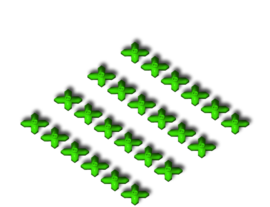
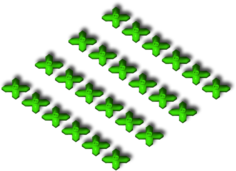
Joli commit, gestion de différents modes d'affichage. Un peu brutal vu que je ne pouvais pas trop commit avant à cause de bugs un peu partout Modification de la touche de déplacement de caméra avec le bouton central de la souris.

diff --git a/client/code/cryme/keyboard.js b/client/code/cryme/keyboard.js
@@ -1,9 +1,15 @@
 CrymeEngine.keyboard = {
 	showKeyMap: true,//pour afficher ou non la keyMap à l'écran
+	keyCount: 14,
 	Keys: {
 		ENTER: { value: 13, name: 'Enter' },
 		SPACE: { value: 32, name: 'Space' },
 		TAB: { value: 9, name: 'Tab' },
+		KEY_A: { value: 65, name: 'A' },
+		KEY_Z: { value: 90, name: 'Z' },
+		KEY_S: { value: 83, name: 'S' },
+		KEY_Q: { value: 91, name: 'Q' },
+		KEY_D: { value: 68, name: 'D' },
 		KEY_1: { value: 49, name: '&' },
 		KEY_2: { value: 50, name: 'é' },
 		KEY_3: { value: 51, name: '"' },
@@ -11,18 +17,28 @@ CrymeEngine.keyboard = {
 		KEY_5: { value: 53, name: '(' }
 	},
 	Shortcuts: {
-		CHAT: undefined,
-		INVENTORY: undefined,
-		SHOW_KEY_MAP: undefined,
-		SHOW_GRAPHIC_DEBUG: undefined,
-		SHOW_GRAPHIC_DEBUG_ITEM: undefined,
-		SHOW_GRAPHIC_DEBUG_MAP: undefined,
-		SHOW_GRAPHIC_DEBUG_ADVANCED: undefined,
-		CHANGE_GRAPHIC_DEBUG_ALPHA: undefined
+		CHAT: null,
+		CHANGE_DISPLAY_TYPE: null,
+		MOVE_UP: null,
+		MOVE_DOWN: null,
+		MOVE_LEFT: null,
+		MOVE_RIGHT: null,
+		MOVE_MAP: null,
+		SHOW_KEY_MAP: null,
+		SHOW_GRAPHIC_DEBUG: null,
+		SHOW_GRAPHIC_DEBUG_ITEM: null,
+		SHOW_GRAPHIC_DEBUG_MAP: null,
+		SHOW_GRAPHIC_DEBUG_ADVANCED: null,
+		CHANGE_GRAPHIC_DEBUG_ALPHA: null
 	},
 	init: function () {
 		CE.keyboard.Shortcuts.CHAT = CrymeEngine.keyboard.Keys.ENTER;
-		CE.keyboard.Shortcuts.INVENTORY = CE.keyboard.Keys.SPACE;
+		CE.keyboard.Shortcuts.CHANGE_DISPLAY_TYPE = CE.keyboard.Keys.KEY_A;
+		CE.keyboard.Shortcuts.MOVE_UP = CE.keyboard.Keys.KEY_Z;
+		CE.keyboard.Shortcuts.MOVE_DOWN = CE.keyboard.Keys.KEY_S;
+		CE.keyboard.Shortcuts.MOVE_LEFT = CE.keyboard.Keys.KEY_Q;
+		CE.keyboard.Shortcuts.MOVE_RIGHT = CE.keyboard.Keys.KEY_D;
+		CE.keyboard.Shortcuts.MOVE_MAP = CE.keyboard.Keys.SPACE;
 		CE.keyboard.Shortcuts.SHOW_KEY_MAP = CE.keyboard.Keys.TAB;
 		CE.keyboard.Shortcuts.SHOW_GRAPHIC_DEBUG = CE.keyboard.Keys.KEY_1;
 		CE.keyboard.Shortcuts.SHOW_GRAPHIC_DEBUG_ITEM = CE.keyboard.Keys.KEY_2;
@@ -43,12 +59,13 @@ CrymeEngine.keyboard = {
 					CE.hud.chat.divs.input.focus();
 				}
 				break;
-			case CE.keyboard.Shortcuts.INVENTORY.value:
-				//TODO a réimplémenter plus tard
+			case CE.keyboard.Shortcuts.CHANGE_DISPLAY_TYPE.value:
+				CE.displayType = (CE.displayType + 1) % 3;
 				break;
 			case CE.keyboard.Shortcuts.SHOW_KEY_MAP.value:
 				CE.keyboard.showKeyMap = !CE.keyboard.showKeyMap;
 				break;
+
 			//graphic debug
 			case CE.keyboard.Shortcuts.SHOW_GRAPHIC_DEBUG.value:
 				Options.Debug.Graphic.enabled = !Options.Debug.Graphic.enabled;
@@ -85,7 +102,7 @@ CrymeEngine.keyboard = {
 	drawKeyMap: function () {
 		if (CE.keyboard.showKeyMap) {
 			CE.canvas.hud.context.fillStyle = "rgba(0, 0, 0, 0.5)";
-			CE.canvas.hud.context.fillRect(0, 180, 400, 20 * 10);
+			CE.canvas.hud.context.fillRect(0, 180, 400, 20 * (this.keyCount + 1));
 			//Pour afficher/masquer la bordure
 			/*CE.canvas.hud.context.strokeStyle = "rgba(0, 0, 0, 0.8)";
 			 CE.canvas.hud.context.strokeRect(0, 180, 400, 20 * 10);*/

diff --git a/client/code/tile_item.js b/client/code/tile_item.js
@@ -1,9 +1,10 @@
 TileItems = {};
 
-function TileItem(texture, col, line, centerX, centerY) {
+function TileItem(texture, textureInfo, col, line, centerX, centerY) {
 	if (texture != undefined) {
 		this.texture = texture;//à partir de maintenant il s'agit de l'image et plus de l'index
 		this.texture.updateWidthHeight();
+		this.textureInfo = textureInfo;
 		this.col = col;
 		this.line = line;
 		this.x = 0;
@@ -15,6 +16,7 @@ function TileItem(texture, col, line, centerX, centerY) {
 		this.imageTop = 0;
 		this.imageRight = 0;
 		this.imageBottom = 0;
+		this.diagram = new Diagram(0, Diagram.Color.WHITE, this.texture.index + 1);
 		this.updateCoord();
 		this.updateImageCoord();
 	}
@@ -61,7 +63,12 @@ TileItem.prototype = {
 			this.imageTop - this.col * tileHeight * (1 - progress / (animationDuration / 2)));
 	},
 	drawItem: function () {
-		CE.canvas.map.context.drawImage(this.texture.image, this.imageLeft, this.imageTop);
+		if (CE.displayType == CE.DisplayType.STANDARD) {
+			CE.canvas.map.context.drawImage(this.texture.image, this.imageLeft, this.imageTop);
+		} else {
+			CE.canvas.map.context.drawImage(this.textureInfo.image, this.imageLeft, this.imageTop);
+			this.diagram.drawItem(this.x, this.y);
+		}
 		if (Options.Debug.Graphic.enabled) {
 			CE.canvas.debug.context.fillStyle = "rgb(29, 82, 161)";
 			CE.canvas.debug.context.fillRect(this.x - Options.Debug.Graphic.dotSize / 2, this.y - Options.Debug.Graphic.dotSize / 10, Options.Debug.Graphic.dotSize, Options.Debug.Graphic.dotSize / 5);
@@ -86,7 +93,7 @@ TileItem.prototype = {
 
 			if (this.highlighted) {
 				CE.canvas.debug.context.fillStyle = "rgba(29, 82, 161, 0.8)";
-				CE.canvas.debug.context.fillRect(this.x + 5, this.y - 18, 100, 19);
+				CE.canvas.debug.context.fillRect(this.x + 5, this.y - 18, 140, 19);
 				CE.canvas.debug.context.fillStyle = "#fff";
 				CE.canvas.debug.context.fillText('center : ' + Math.floor(this.centerX) + ',' + Math.floor(this.centerY), this.x + 10, this.y - 4);
 			}
@@ -104,4 +111,5 @@ function LoadTexTilesItem() {
 	LoadTexCrops();
 	LoadTexBuildings();
 	LoadTexCharacters();
+	LoadTexDiagram();
 }

diff --git a/client/code/cryme/engine.js b/client/code/cryme/engine.js
@@ -17,6 +17,12 @@ var CrymeEngine = {
 	mapInvalidated: false, //If this is true, the map will be redrawn
 	highlightedItem: -1,//index de l'item selectionne
 	hudElements: [],
+	DisplayType: {
+		STANDARD: 0,
+		INFO_MAP: 1,
+		INFO_BUILDING: 2
+	},
+	displayType: 0,
 	camera: {
 		position: {
 			x: -1000,
@@ -174,7 +180,7 @@ var CrymeEngine = {
 					CrymeEngine.mousePosition.x = event.pageX / scaleFactor - this.offsetLeft;
 					CrymeEngine.mousePosition.y = event.pageY / scaleFactor - this.offsetTop;
 					var objectSelected = false;
-					for (var i = Map.tileItems.length - 1; i > 0; i--) {//en gérant par la fin, on sélectionne l'élément au premier plan
+					for (var i = Map.tileItems.length - 1; i >= 0; i--) {//en gérant par la fin, on sélectionne l'élément au premier plan
 						if (Map.tileItems[i].mouseIntersect(CE.mousePosition.x - CE.camera.position.x, CE.mousePosition.y - CE.camera.position.y)) {
 							if (CE.highlightedItem > -1 && CE.highlightedItem != i) {
 								Map.tileItems[CE.highlightedItem].highlighted = false;
@@ -192,7 +198,7 @@ var CrymeEngine = {
 						}
 					}
 				}
-				if (event.button == 2) {
+				if (event.button == 1) {
 					//le clic droit sers a bouger la map, et le gauche a agir
 					//positionnement de la souris
 					CrymeEngine.mousePosition.x = event.pageX - this.offsetLeft;
@@ -305,9 +311,9 @@ function CreateMap() {
 	Map.tileItems.push(crop);
 
 	//modification de la map
-	Map.changeTile(6, 1, 6);//pour mettre de la terre sous les crops sous le cold storage
-	Map.changeTile(6, 3, 5);
-	Map.changeTile(6, 2, 1);
+	/*Map.changeTile(6, 1, 6);//pour mettre de la terre sous les crops sous le cold storage
+	 Map.changeTile(6, 3, 5);
+	 Map.changeTile(6, 2, 1);*/
 
 	//ajout de characters
 	var character = new TileItems.Character(0, 5, 5);

diff --git a/client/code/diagram.js b/client/code/diagram.js
@@ -1,0 +1,39 @@
+var texDiagramList = [
+	{image: 'block'}
+];
+
+var texDiagrams = [];
+
+function Diagram(index, color, count) {
+	this.texture = texDiagrams[index];//à partir de maintenant il s'agit de l'image et plus de l'index
+	this.texture.updateWidthHeight();
+	this.count = count;
+	this.color = color;//de type Color
+}
+
+Diagram.Color = {
+	WHITE: { color: 'rgb(125, 200, 0)', text: 'Value' }
+};
+
+Diagram.prototype = {
+	constructor: Diagram,
+	//coordonnees du centre de dessin
+	drawItem: function (x, y) {
+		for (var i = 0; i < this.count; i++) {
+			CE.canvas.map.context.drawImage(this.texture.image, x - this.texture.width / 2, y - this.texture.height / 2 - i * 23);
+		}
+		/*CE.canvas.map.context.globalCompositeOperation = 'lighter';
+		 CE.canvas.map.context.fillStyle = this.color.color;
+		 CE.canvas.map.context.fillRect(x, y, 50, 80);
+		 CE.canvas.map.context.globalCompositeOperation = 'source-over';*/
+	}
+};
+
+function LoadTexDiagram() {
+	totalLoadingCount += texDiagramList.length * 2;//2 pour les textures infos
+	for (var i = 0; i < texDiagramList.length; i++) {
+		var texture = new Texture(i, texDiagramList[i].image, 'src/diagram/' + texDiagramList[i].image + '.png');
+		texture.image.addEventListener('load', texture.loadingEnded);
+		texDiagrams[i] = texture;
+	}
+}

diff --git a/client/code/tile.js b/client/code/tile.js
@@ -1,6 +1,6 @@
 //gestion des textures
 //je précise qu'ici il faudra que je fasse commencer grass à 0 et que j'inverse les 2 tiles
-var texTileList = ['grass_0', 'grass_1', 'grass_2', 'grass_3', 'rock', 'leave', 'soil', 'water_0', 'water_1', 'water_2'];
+var texTileList = ['grass_0', 'grass_1', 'grass_2', 'grass_3', 'rock', 'leave', 'soil', 'water_0', 'water_1', 'water_2', 'white'];
 var texTiles = [];
 
 function Tile(data) {
@@ -49,7 +49,6 @@ Tile.prototype = {
 		else {
 			this.image = 9;//water
 		}
-
 	},
 	updateCoord: function () {
 		this.x = (this.col + this.line) * (tileWidth / 2);
@@ -69,7 +68,12 @@ Tile.prototype = {
 	},
 	//attention a bien se préoccuper du context avant, ici je m'en occupe pas
 	drawTile: function () {
-		CrymeEngine.canvas.map.context.drawImage(texTiles[this.image].image, this.imageLeft, this.imageTop);
+		if (CE.displayType == CE.DisplayType.STANDARD) {
+			CrymeEngine.canvas.map.context.drawImage(texTiles[this.image].image, this.imageLeft, this.imageTop);
+		} else {
+			CrymeEngine.canvas.map.context.drawImage(texTiles[10].image, this.imageLeft, this.imageTop);
+		}
+
 		if (Options.Debug.Graphic.enabled) {
 			if (Options.Debug.Graphic.map) {
 				CE.canvas.debug.context.fillStyle = "#fff";

diff --git a/client/code/crop.js b/client/code/crop.js
@@ -1,12 +1,13 @@
 var texCropList = [
-	{image: 'wheat', centerX: 132, centerY: 128},
-	{image: 'tomato', centerX: 131, centerY: 114},
-	{image: 'corn', centerX: 134, centerY: 124}
+	{image: 'wheat', centerX: 111, centerY: 111},
+	{image: 'tomato', centerX: 125, centerY: 114},
+	{image: 'corn', centerX: 114, centerY: 88}
 ];
 var texCrops = [];
+var texCropInfos = [];
 
 TileItems.Crop = function (type, col, line) {
-	TileItem.call(this, texCrops[type], col, line, texCropList[type].centerX, texCropList[type].centerY);
+	TileItem.call(this, texCrops[type], texCropInfos[type], col, line, texCropList[type].centerX, texCropList[type].centerY);
 }
 
 TileItems.Crop.prototype = new TileItem();
@@ -18,5 +19,8 @@ function LoadTexCrops() {
 		var texture = new Texture(i, texCropList[i].image, 'src/crops/' + texCropList[i].image + '.png');
 		texture.image.addEventListener('load', texture.loadingEnded);
 		texCrops[i] = texture;
+		var textureInfo = new Texture(i, texCropList[i].image, 'src/crops/' + texCropList[i].image + '_white.png');
+		textureInfo.image.addEventListener('load', textureInfo.loadingEnded);
+		texCropInfos[i] = textureInfo;
 	}
 }

diff --git a/client/code/index.html b/client/code/index.html
@@ -7,8 +7,8 @@
 	<script src="libs/date.format.js" type="text/javascript"></script>
 	<script src="global.js" type="text/javascript"></script>
 	<script src="options.js" type="text/javascript"></script>
-    <script src="game_logic/models.js" type="text/javascript"></script>
-    <script src="game_logic/state.js" type="text/javascript"></script>
+	<script src="game_logic/models.js" type="text/javascript"></script>
+	<script src="game_logic/state.js" type="text/javascript"></script>
 	<script src="cryme/canvas.js" type="text/javascript"></script>
 	<script src="cryme/engine.js" type="text/javascript"></script>
 	<script src="cryme/keyboard.js" type="text/javascript"></script>
@@ -22,6 +22,7 @@
 	<script src="hud/notification.js" type="text/javascript"></script>
 	<script src="tile.js" type="text/javascript"></script>
 	<script src="tile_item.js" type="text/javascript"></script>
+	<script src="diagram.js" type="text/javascript"></script>
 	<script src="crop.js" type="text/javascript"></script>
 	<script src="building.js" type="text/javascript"></script>
 	<script src="character.js" type="text/javascript"></script>

diff --git a/client/code/building.js b/client/code/building.js
@@ -2,9 +2,10 @@ var texBuildingList = [
 	{image: 'home', centerX: 133, centerY: 275}
 ];
 var texBuildings = [];
+var texBuildingInfos = [];
 
 TileItems.Building = function (type, col, line) {
-	TileItem.call(this, texBuildings[type], col, line, texBuildingList[type].centerX, texBuildingList[type].centerY);
+	TileItem.call(this, texBuildings[type], texBuildingInfos[type], col, line, texBuildingList[type].centerX, texBuildingList[type].centerY);
 }
 
 TileItems.Building.prototype = new TileItem();
@@ -16,5 +17,8 @@ function LoadTexCharacters() {
 		var texture = new Texture(i, texBuildingList[i].image, 'src/buildings/' + texBuildingList[i].image + '.png');
 		texture.image.addEventListener('load', texture.loadingEnded);
 		texBuildings[i] = texture;
+		var textureInfo = new Texture(i, texBuildingList[i].image, 'src/buildings/' + texBuildingList[i].image + '_white.png');
+		textureInfo.image.addEventListener('load', textureInfo.loadingEnded);
+		texBuildingInfos[i] = textureInfo;
 	}
 }

diff --git a/client/code/character.js b/client/code/character.js
@@ -1,11 +1,11 @@
 var texCharacterList = [
-	{image: 'player', centerX: 19, centerY: 15},
+	{image: 'player', centerX: 33, centerY: 29},
 	{image: 'farmer', centerX: 15, centerY: 18}
 ];
 var texCharacters = [];
 
 TileItems.Character = function (type, col, line) {
-	TileItem.call(this, texCharacters[type], col, line, texCharacterList[type].centerX, texCharacterList[type].centerY);
+	TileItem.call(this, texCharacters[type], texCharacters[type], col, line, texCharacterList[type].centerX, texCharacterList[type].centerY);
 }
 
 TileItems.Character.prototype = new TileItem();
